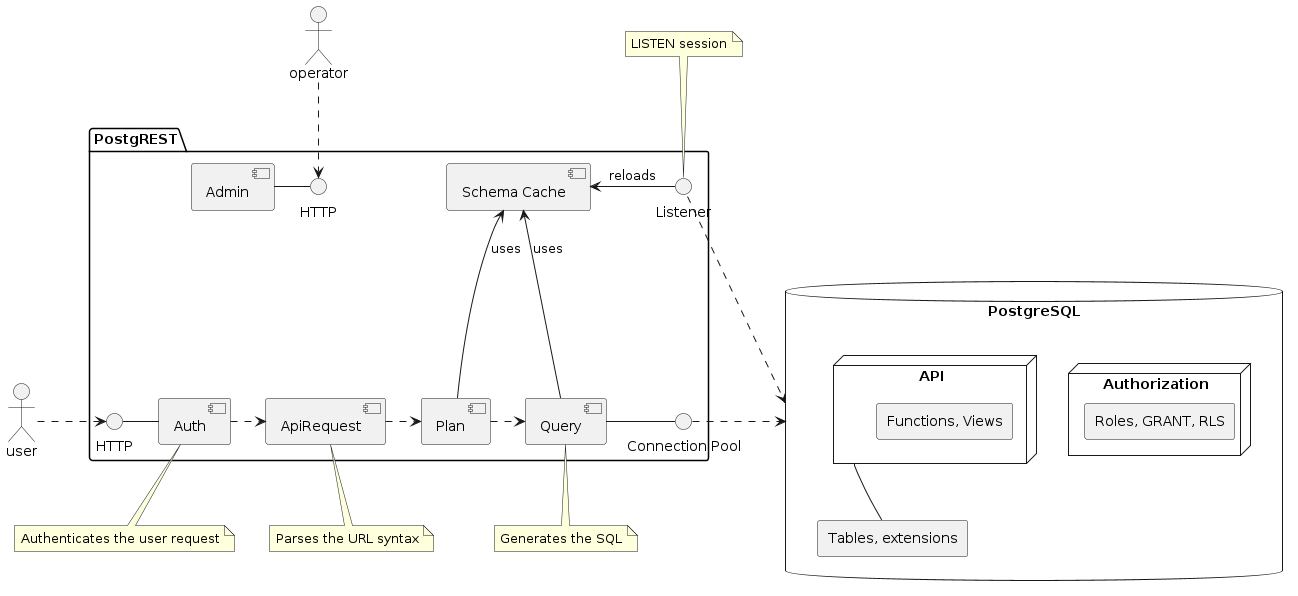
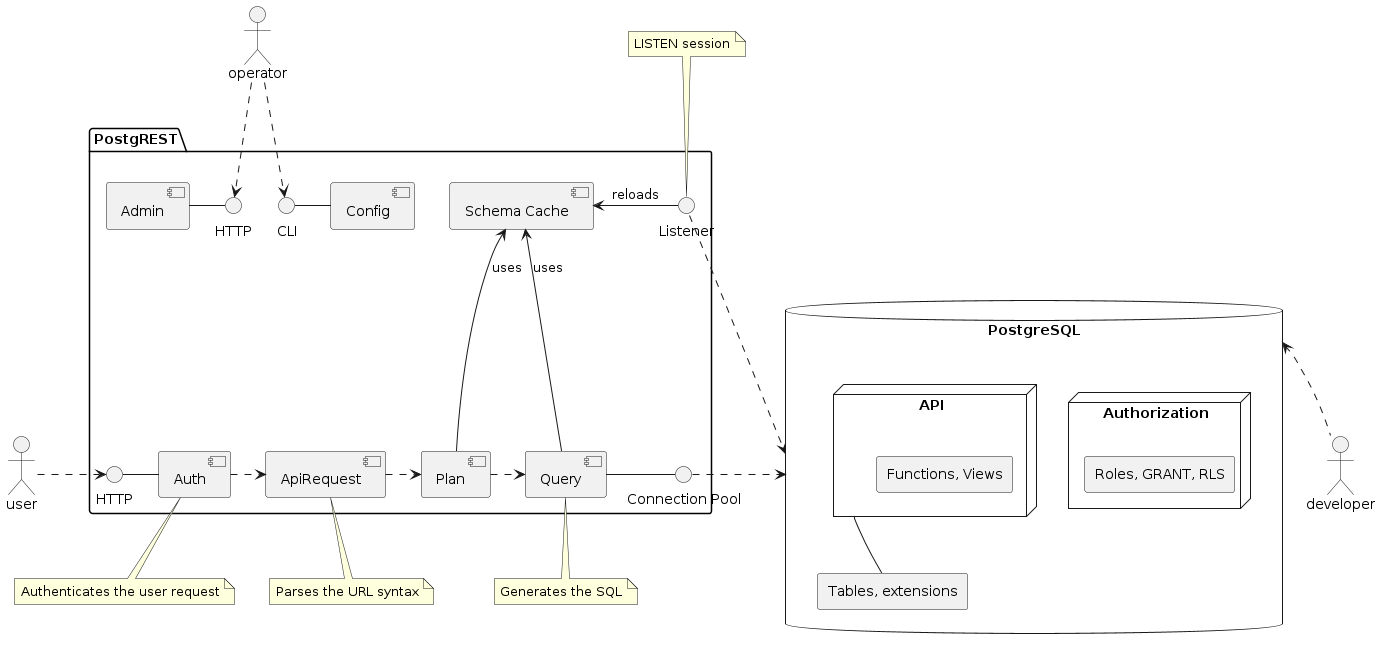
docs: add config/cli/developer to arch

diff --git a/ARCHITECTURE.md b/ARCHITECTURE.md
@@ -32,8 +32,7 @@ A request might be rejected at this level if it's invalid. For example when prov
 
 ### Plan
 
-Using the Schema Cache, this module enables more complex functionality (like resource embedding) by enriching the ApiRequest. It generates intermediate Plan types
-that then will be used for the next step.
+Using the Schema Cache, this module fills in SQL details that the user might have not specified (like an `ON CONFLICT (pk)` clause ).
 
 A request might be rejected at this level if it's invalid. For example when doing resource embedding on a nonexistent resource.
 
